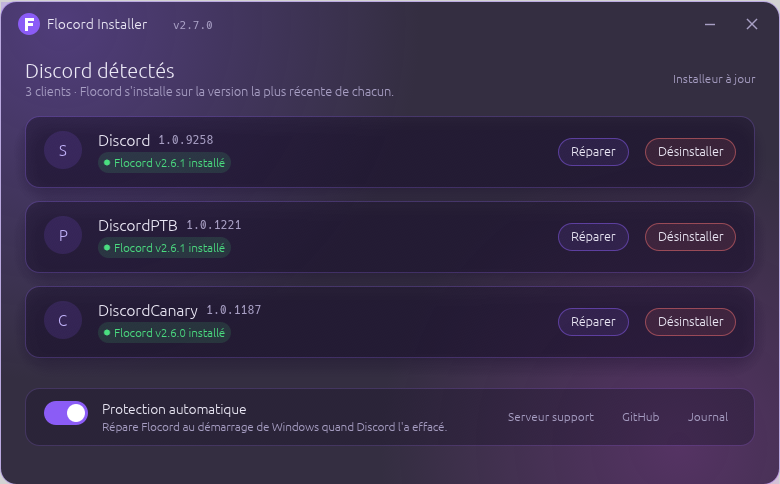
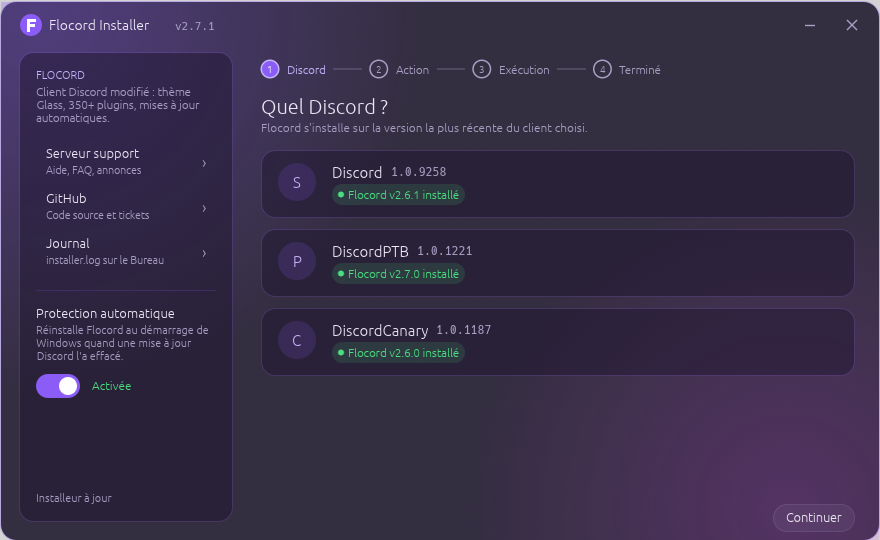
Version 2.7.1; installer screenshot

diff --git a/src/flocordplugins/FlocordAutoUpdater/version.ts b/src/flocordplugins/FlocordAutoUpdater/version.ts
@@ -4,4 +4,4 @@
  * SPDX-License-Identifier: GPL-3.0-or-later
  */
 
-export const FLOCORD_VERSION = "2.7.0";
+export const FLOCORD_VERSION = "2.7.1";
